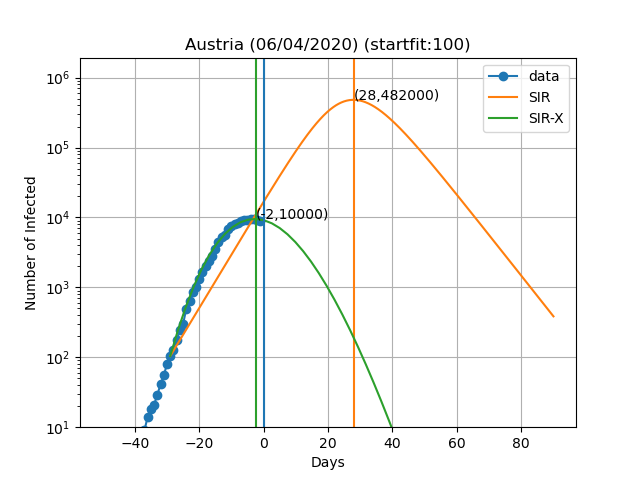
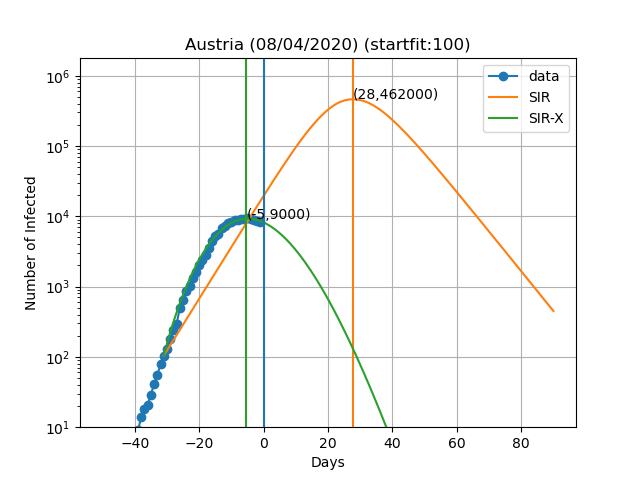
Updated the COVID figures with the data of today + correction of how the number of infected is computed. This makes the peak of infected be earlier than before.

diff --git a/covid-19-pt.html b/covid-19-pt.html
@@ -60,10 +60,10 @@ Aqui estão as previsões para alguns países:
 <img alt="belgium_model" src="./images/belgium.png">
 <img alt="us_model" src="./images/us.png"></p>
 <p>A curva vertical azul representa o dia no título do gráfico.
-Os pontos azuis são obtidos subtraindo o número de indivíduos recuperados ao número de casos confirmados.
+Os pontos azuis são obtidos subtraindo o número de indivíduos recuperados e mortes ao número de casos confirmados.
 No modelo SIR-X, o número de infectados é obtido adicionando X e I, desde que a modificação a vermelho esteja presente.
 As linhas verticais verde e laranja representam o dia em que o número máximo de pessoas infectadas é observado de acordo com o modelo, bem como o numero de infectados nesse dia (Dia,Máx. infectados).
-O resultado final depende muito sensivelmente do dia em que se começa a resolver as equações diferenciais (startfit). Eu escolho dias diferentes para os diferentes países.
+O resultado final depende muito sensivelmente do dia em que se começa a resolver as equações diferenciais. Este dia é escolhido de forma a que o numero de infectados seja igual a 'startfit'.
 O código para gerar estes gráficos está disponível <a href="https://github.com/jmpcm/covid19/blob/master/get_sirx.py">aqui</a></p>
 <p>AVISO: Não sou de modo algum um especialista neste tipo de modelos ou na forma de os resolver. Estes dados destinam-se apenas a fins ilustrativos. Não posso excluir a possibilidade de um erro sistemático e de todos os resultados aqui apresentados estarem errados. Se encontrar tal erro, por favor informe-me para que eu o possa corrigir.
 Os verdadeiros <a href="http://rocs.hu-berlin.de/corona/docs/forecast/results_by_country/">peritos</a> não se arriscam a fazer previsões de mais de 7 dias e a razão é que previsões tendem a estar errados à medida que o tempo passa. Neste trabalho eu ajusto todas as variáveis do modelo simultaneamente, enquanto os autores originais ajustam apenas as novas variáveis introduzidas no modelo SIR-X em relação ao SIR.</p>

diff --git a/author/henrique-miranda.html b/author/henrique-miranda.html
@@ -55,10 +55,10 @@ Here are the plots and fits for some countries:
 <img alt="belgium_model" src="../images/belgium.png">
 <img alt="us_model" src="../images/us.png"></p>
 <p>The vertical blue curve represents the day in the title of the graph.
-The blue dots are obtained by subtracting the number of recovered to the number of confirmed cases.
+The blue dots are obtained by subtracting the number of recovered and deaths to the number of confirmed cases.
 In the SIR-X model the number of infected is obtained by adding X and I provided that the modification in red is present.
 The green and orange vertical lines represent the day in which the maximum number of infected people is observed according to the model as well as the number of infected people on that day (Day,Max. infeced).
-The final result depends very sensively on the day at which you start to solve the differential equations (startfit). I choose different days for the different countries.
+The final result depends very sensively on the day at which you start to solve the differential equations. This day is choosen such that the number of infected is equal to startfit.
 The code to generate these graphs is available <a href="https://github.com/jmpcm/covid19/blob/master/get_sirx.py">here</a></p>
 <p>WARNING: I am by no means a specialist in these type of models or how to solve them. This data is meant for illustrative purposes only. I cannot exclude the possibility of a systematic error in the scripts and all the results shown here being wrong. If you do find such error please let me know so I can fix it.
 The real <a href="http://rocs.hu-berlin.de/corona/docs/forecast/results_by_country/">experts</a> dont't risk making predictions of more than 7 days and the reason is that predictions tend to be wrong as time passes. In this work I fit all the variables of the model simultaneously, while the original authors fit only the new variables introduced in the SIR-X model with respect to the SIR.</p>

diff --git a/category/others.html b/category/others.html
@@ -55,10 +55,10 @@ Here are the plots and fits for some countries:
 <img alt="belgium_model" src="../images/belgium.png">
 <img alt="us_model" src="../images/us.png"></p>
 <p>The vertical blue curve represents the day in the title of the graph.
-The blue dots are obtained by subtracting the number of recovered to the number of confirmed cases.
+The blue dots are obtained by subtracting the number of recovered and deaths to the number of confirmed cases.
 In the SIR-X model the number of infected is obtained by adding X and I provided that the modification in red is present.
 The green and orange vertical lines represent the day in which the maximum number of infected people is observed according to the model as well as the number of infected people on that day (Day,Max. infeced).
-The final result depends very sensively on the day at which you start to solve the differential equations (startfit). I choose different days for the different countries.
+The final result depends very sensively on the day at which you start to solve the differential equations. This day is choosen such that the number of infected is equal to startfit.
 The code to generate these graphs is available <a href="https://github.com/jmpcm/covid19/blob/master/get_sirx.py">here</a></p>
 <p>WARNING: I am by no means a specialist in these type of models or how to solve them. This data is meant for illustrative purposes only. I cannot exclude the possibility of a systematic error in the scripts and all the results shown here being wrong. If you do find such error please let me know so I can fix it.
 The real <a href="http://rocs.hu-berlin.de/corona/docs/forecast/results_by_country/">experts</a> dont't risk making predictions of more than 7 days and the reason is that predictions tend to be wrong as time passes. In this work I fit all the variables of the model simultaneously, while the original authors fit only the new variables introduced in the SIR-X model with respect to the SIR.</p>

diff --git a/covid-19.html b/covid-19.html
@@ -60,10 +60,10 @@ Here are the plots and fits for some countries:
 <img alt="belgium_model" src="./images/belgium.png">
 <img alt="us_model" src="./images/us.png"></p>
 <p>The vertical blue curve represents the day in the title of the graph.
-The blue dots are obtained by subtracting the number of recovered to the number of confirmed cases.
+The blue dots are obtained by subtracting the number of recovered and deaths to the number of confirmed cases.
 In the SIR-X model the number of infected is obtained by adding X and I provided that the modification in red is present.
 The green and orange vertical lines represent the day in which the maximum number of infected people is observed according to the model as well as the number of infected people on that day (Day,Max. infeced).
-The final result depends very sensively on the day at which you start to solve the differential equations (startfit). I choose different days for the different countries.
+The final result depends very sensively on the day at which you start to solve the differential equations. This day is choosen such that the number of infected is equal to startfit.
 The code to generate these graphs is available <a href="https://github.com/jmpcm/covid19/blob/master/get_sirx.py">here</a></p>
 <p>WARNING: I am by no means a specialist in these type of models or how to solve them. This data is meant for illustrative purposes only. I cannot exclude the possibility of a systematic error in the scripts and all the results shown here being wrong. If you do find such error please let me know so I can fix it.
 The real <a href="http://rocs.hu-berlin.de/corona/docs/forecast/results_by_country/">experts</a> dont't risk making predictions of more than 7 days and the reason is that predictions tend to be wrong as time passes. In this work I fit all the variables of the model simultaneously, while the original authors fit only the new variables introduced in the SIR-X model with respect to the SIR.</p>

diff --git a/pelican/content/covid19_pt.md b/pelican/content/covid19_pt.md
@@ -31,10 +31,10 @@ Aqui estão as previsões para alguns países:
 ![us_model]({static}/images/us.png)
 
 A curva vertical azul representa o dia no título do gráfico.
-Os pontos azuis são obtidos subtraindo o número de indivíduos recuperados ao número de casos confirmados.
+Os pontos azuis são obtidos subtraindo o número de indivíduos recuperados e mortes ao número de casos confirmados.
 No modelo SIR-X, o número de infectados é obtido adicionando X e I, desde que a modificação a vermelho esteja presente.
 As linhas verticais verde e laranja representam o dia em que o número máximo de pessoas infectadas é observado de acordo com o modelo, bem como o numero de infectados nesse dia (Dia,Máx. infectados).
-O resultado final depende muito sensivelmente do dia em que se começa a resolver as equações diferenciais (startfit). Eu escolho dias diferentes para os diferentes países.
+O resultado final depende muito sensivelmente do dia em que se começa a resolver as equações diferenciais. Este dia é escolhido de forma a que o numero de infectados seja igual a 'startfit'.
 O código para gerar estes gráficos está disponível [aqui](https://github.com/jmpcm/covid19/blob/master/get_sirx.py)
 
 AVISO: Não sou de modo algum um especialista neste tipo de modelos ou na forma de os resolver. Estes dados destinam-se apenas a fins ilustrativos. Não posso excluir a possibilidade de um erro sistemático e de todos os resultados aqui apresentados estarem errados. Se encontrar tal erro, por favor informe-me para que eu o possa corrigir.

diff --git a/pelican/content/covid19.md b/pelican/content/covid19.md
@@ -31,10 +31,10 @@ Here are the plots and fits for some countries:
 ![us_model]({static}/images/us.png)
 
 The vertical blue curve represents the day in the title of the graph.
-The blue dots are obtained by subtracting the number of recovered to the number of confirmed cases.
+The blue dots are obtained by subtracting the number of recovered and deaths to the number of confirmed cases.
 In the SIR-X model the number of infected is obtained by adding X and I provided that the modification in red is present.
 The green and orange vertical lines represent the day in which the maximum number of infected people is observed according to the model as well as the number of infected people on that day (Day,Max. infeced).
-The final result depends very sensively on the day at which you start to solve the differential equations (startfit). I choose different days for the different countries.
+The final result depends very sensively on the day at which you start to solve the differential equations. This day is choosen such that the number of infected is equal to startfit.
 The code to generate these graphs is available [here](https://github.com/jmpcm/covid19/blob/master/get_sirx.py)
 
 WARNING: I am by no means a specialist in these type of models or how to solve them. This data is meant for illustrative purposes only. I cannot exclude the possibility of a systematic error in the scripts and all the results shown here being wrong. If you do find such error please let me know so I can fix it.
